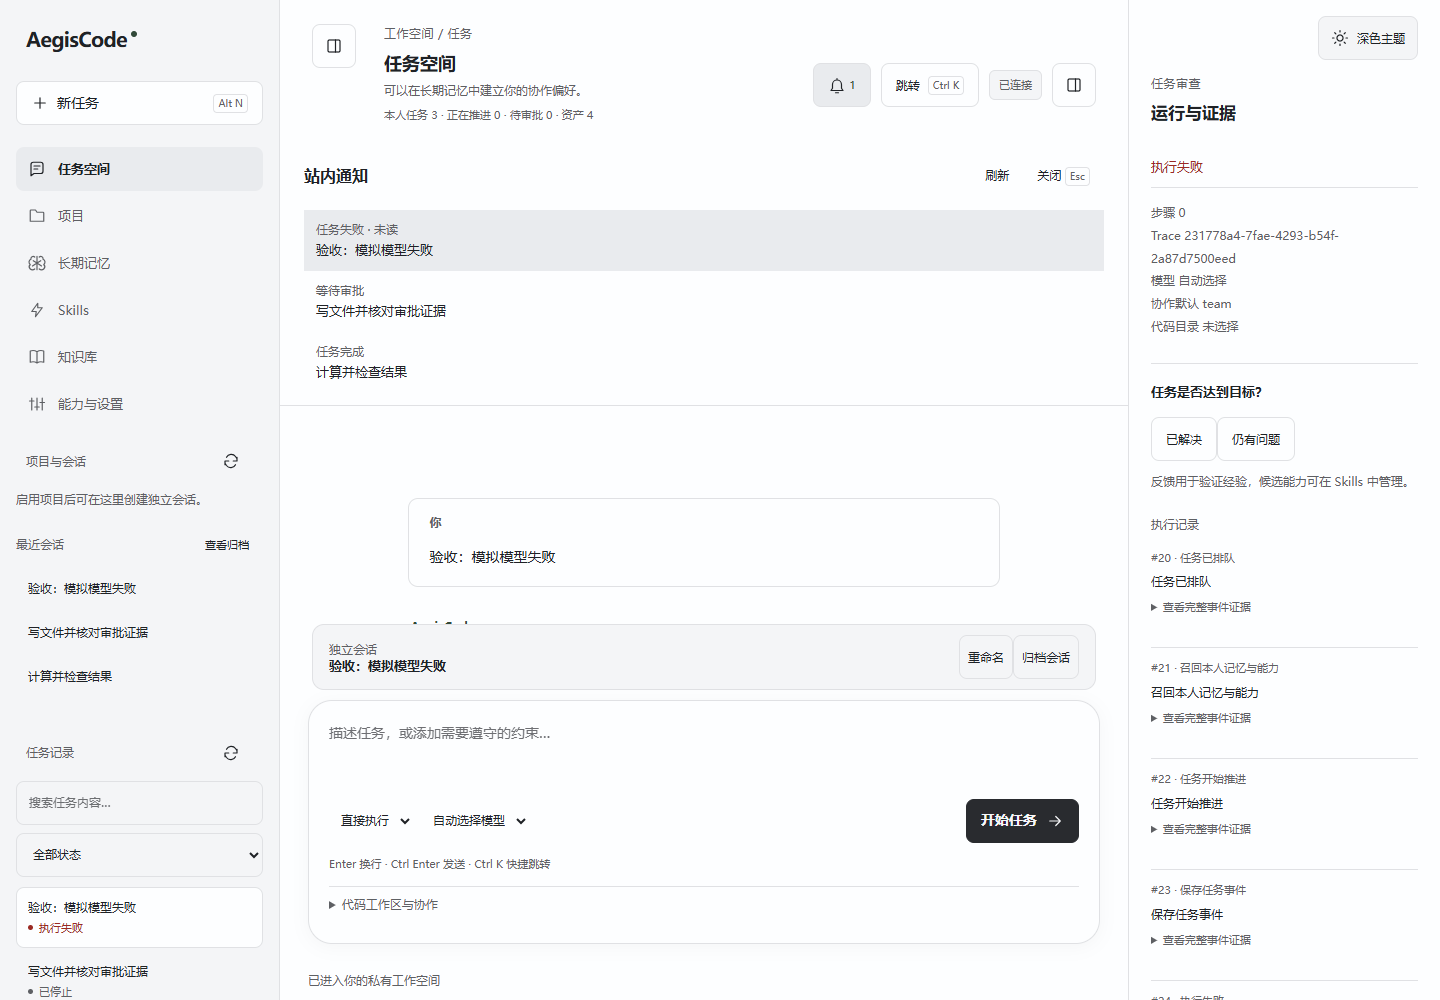
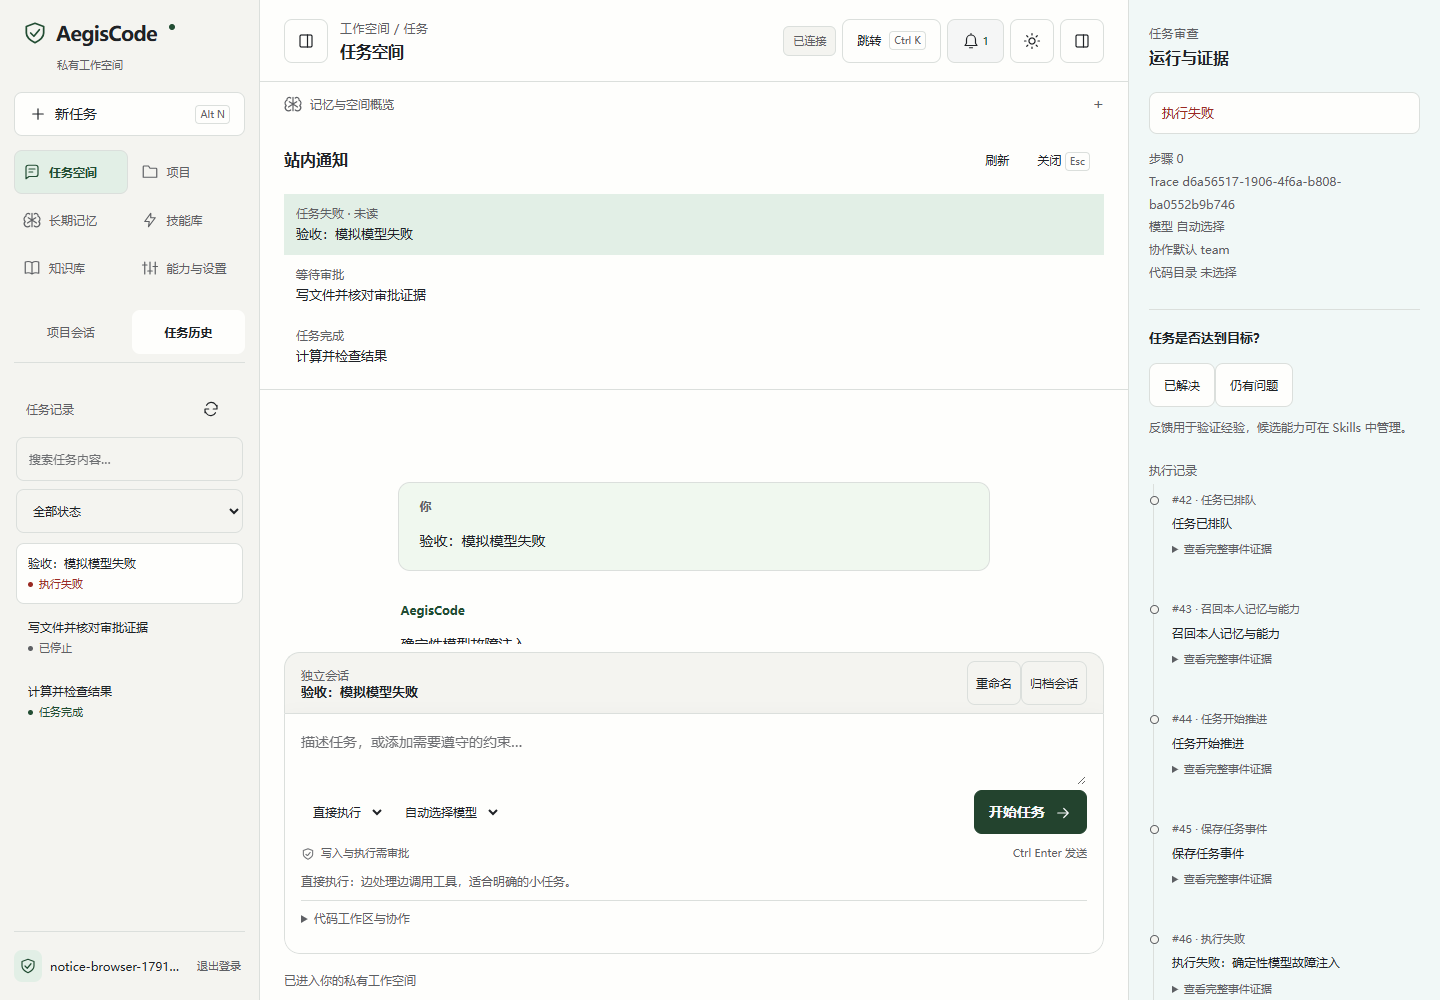
docs(使用): 展示新版工作台截图与操作指南

diff --git a/docs/升级方案/21-工作台布局与易用性验收.md b/docs/升级方案/21-工作台布局与易用性验收.md
@@ -1,0 +1,73 @@
+# 工作台布局与易用性验收
+
+日期：2026-10-07。范围：当前 TypeScript + Vite、HTML/CSS 前端；本轮不更改模型、审批和工具权限契约。
+
+## 任务与执行方式
+
+采用模式 B：现有前端模块优化。用户明确要求继续改善简陋界面、布局，并补充浅色相近色变化与易懂的功能说明。
+
+- [x] 检查用户参考图 `C:/Users/dell/Desktop/1.png`、现有截图、HTML/CSS 与 TypeScript。
+- [x] 重排导航、项目／历史分区、顶部工具栏、会话区、输入区和审查区。
+- [x] 增加浅色层次、模式说明、功能用途与当前会话标记。
+- [x] 清理重复响应式规则与当前会话标记逻辑。
+- [x] 浏览器验收、查看真实截图并修正窄屏工具栏。
+- [x] 同步 README、设计说明和操作指南。
+
+用户之前已持续授权分阶段提交并更新 GitHub，本轮按界面实现与文档截图两组提交。仅纳入本轮文件，不提交工作区已有的 Gradio、依赖及独立文档改动。
+
+## 技能选择
+
+按 find-skills 工作流扫描本地目录并匹配候选；项目未提供 `.codex/skills` 或 `.agents` 目录。本轮不安装额外技能或前端依赖。
+
+| 候选 | 功能与适用场景 | 本轮选择 |
+|---|---|---|
+| find-skills | 查找可复用技能 | 使用，完成本地匹配 |
+| ui-ux-pro-max | 布局、交互与响应式建议 | 使用，检索侧栏导航密度 |
+| impeccable | 产品上下文与视觉治理 | 使用，读取 PRODUCT／DESIGN 和 product 规则 |
+| frontend-design | 前端视觉与组件实现 | 使用，重排现有工作台 |
+| code-simplifier | 去除重复代码 | 使用，合并窄屏样式与会话标记函数 |
+| webapp-testing | 浏览器交互和截图验收 | 使用，Playwright 真实浏览器 |
+| verification-before-completion | 交付前验证 | 使用，核对本轮构建与验收输出 |
+| Git Smart Commit | 逻辑拆分提交 | 使用，界面与文档分组 |
+| brainstorming | 新功能创意设计 | 未新增系统，沿用已确定方向 |
+| writing-plans | 多模块实施计划 | 未新增架构，记录模块级方案 |
+| code-refactor | 系统性重构 | 不扩大到后端重构 |
+| dependency-auditor | 依赖审计 | 本轮不变更依赖 |
+
+没有调用 Sequential Thinking、DuckDuckGo、Context7 或 Serena；本轮无需外部知识。采用本地源码、参考图、技能搜索与浏览器证据。
+
+## 最终设计
+
+保留常见编码工作台的中央会话与底部输入，以绿色状态和记忆／技能／审查入口体现 AegisCode 的用途。
+
+- 侧栏功能导航两列排列，「项目会话／任务历史」切换记录类型；列表独立滚动，账号和退出保留底部位置。
+- 顶部工具栏收紧，主题按钮不再悬浮遮挡；「记忆与空间概览」按需展开。
+- 浅色使用暖灰导航、柔白会话、浅鼠尾草绿选中项和用户消息、浅青灰审查；深色共享相同语义变量。
+- 当前会话用背景与 `aria-current` 标记；项目树刷新保留展开状态。快捷搜索任务会自动打开历史并定位搜索框。
+- 项目标签、重命名、归档与输入合并在同一区域；保留有界滚动，避免展开协作选项后遮挡控件。
+- 技能入口使用「技能库」，保留 Skills 检索词；执行模式随选择显示解释；Fork、Team、Worktree 在审查信息中显示中文用途。
+- 窄屏工具栏使用有名称的图标；键盘焦点、`aria-pressed`、`aria-current` 与原有错误反馈保留。
+
+## 验收证据
+
+命令：
+
+```powershell
+npm.cmd run frontend:verify
+.venv/Scripts/python.exe -m ruff check scripts/layout_browser_acceptance.py scripts/run_ui_acceptance.py scripts/project_threads_browser_acceptance.py
+.venv/Scripts/python.exe -m scripts.run_ui_acceptance --module scripts.project_threads_browser_acceptance --module scripts.notifications_browser_acceptance --module scripts.workbench_browser_acceptance --module scripts.layout_browser_acceptance
+.venv/Scripts/python.exe -m scripts.coding_ui_acceptance --url http://127.0.0.1:8002 --output build/ui-layout-coding-final
+.venv/Scripts/python.exe -m scripts.thread_browser_acceptance --url http://127.0.0.1:8002 --output build/ui-layout-thread
+```
+
+结果：TypeScript、Vite 构建和修改范围 Ruff 通过；项目会话 13 项、通知 10 项、完整工作台、代码界面 18 项、连续问答 9 项通过。最终会话标记函数清理后再次执行项目 13 项与布局验收，均通过。页面无未捕获脚本错误；完整工作台无非预期 HTTP 服务错误。
+
+布局覆盖浅色／深色各 6 个视口：1440×900、1280×720、1024×768、768×1024、390×844、844×390，共 12 组。检查无页面横向溢出、发送按钮可滚动到完整可见且未被遮挡、协作选项可访问；极长会话标题与 HTML 注入文本没有生成图片节点。还验证概览展开、模式说明、建议只预填、快捷搜索定位、当前会话高亮和登录退出主题按钮位置。
+
+工作台与通知包含 HTTP 500 故障注入，核对用户可重试；原有审批、文件预览、会话归档与分页功能保留。测试使用独立临时数据库和确定性模型，不代表真实模型泛化效果。本轮未重跑后端全量测试、Docker 沙箱或公开安装包验收。
+
+本机 `http://127.0.0.1:8002/api/v1/health/ready` 返回 `status=ready`、`database=up`。通过系统命令打开浏览器被自动审批以 `blocked by policy` 拦截，页面需从链接访问。
+
+## 交付范围
+
+[新版操作指南](../新版工作台指南.md)与五张[新版截图](../截图/工作台新版/01-浅色工作空间.png)展示本轮源码界面。公开 0.2.6 EXE 尚未包含本轮改版，不覆盖既有发布资产；后续版本须重新构建并验收安装器。

diff --git a/README.md b/README.md
@@ -8,13 +8,15 @@ AegisCode 面向个人开发者和企业成员：描述目标，由 Agent 规划
 
 [安装与启动](#安装与启动) · [使用场景与截图](#使用场景与截图) · [模型配置](#模型配置) · [使用方式](#使用方式) · [项目亮点](#项目亮点) · [使用手册](docs/使用手册.md)
 
-![AegisCode 项目多会话工作台](docs/截图/项目会话/01-项目独立会话.png)
+![AegisCode 浅色工作空间](docs/截图/工作台新版/01-浅色工作空间.png)
 
 ## 界面与操作
 
-浅色任务侧栏、中央线程、底部输入区与可折叠审查区，配合石墨深色主题。正式界面使用 **TypeScript + Vite、HTML/CSS**，随 FastAPI 和 EXE 提供静态页面。AegisCode 把个人长期记忆、Skill 审阅和工具证据保留在同一工作台。
+暖灰导航、柔白会话区、浅绿记忆与选中状态、冷灰审查区，配合石墨深色主题。正式界面使用 **TypeScript + Vite、HTML/CSS**，随 FastAPI 和 EXE 提供静态页面。AegisCode 把个人长期记忆、Skill 审阅和工具证据保留在同一工作台。上图为当前源码界面，公开 **0.2.6 下载包尚未包含本次布局更新**。
 
 - 顶部按钮折叠两侧面板，聚焦当前线程；窄屏默认收起导航。
+- 侧栏「项目会话／任务历史」切换记录类型；项目树刷新保留展开状态，当前会话高亮。账号与退出入口固定在侧栏底部。
+- 「记忆与空间概览」按需展开；输入区解释执行模式，项目标签与会话操作合并在输入区上方。
 - `Ctrl K` / `Cmd K` 搜索入口，方向键选择、`Enter` 打开、`Esc` 关闭；`Alt N` 开新任务，`Ctrl Enter` 发送。
 - 回答中的代码块独立展示并支持复制；任务文件只读预览，写文件与运行代码需审批。
 - 当前源码支持同一会话的历史问答与分页加载；选中旧任务时只展示截至该任务的问答，子任务保留独立视图。
@@ -23,13 +25,13 @@ AegisCode 面向个人开发者和企业成员：描述目标，由 Agent 规划
 - 协作选项接通 Fork、Agent Team 与审批后的 Worktree/代码副本准备；主控保留控制权，子任务目前只读。
 
 <details>
-<summary>查看编码线程与深色界面</summary>
+<summary>查看新版任务审查与深色界面</summary>
 
-![浅色编码线程](docs/升级方案/截图/0.2.5/06-浅色编码体验.png)
+![浅色任务与审查证据](docs/截图/工作台新版/03-任务与审查证据.png)
 
-![深色编码线程](docs/升级方案/截图/0.2.5/05-深色编码体验.png)
+![深色工作台](docs/截图/工作台新版/04-深色工作台.png)
 
-首页为本机完整工作台验收截图，编码线程为确定性界面夹具截图，用于展示交互，不代表真实模型的代码效果。
+新版截图来自独立数据库、真实 HTTP 链路与确定性测试模型，用于展示交互，不代表真实模型效果。操作导览见[新版工作台指南](docs/新版工作台指南.md)。
 
 </details>
 
@@ -40,9 +42,9 @@ AegisCode 面向个人开发者和企业成员：描述目标，由 Agent 规划
 | 你想完成的工作 | 操作入口 | 平台带来的价值 |
 |---|---|---|
 | 持续讨论代码问题 | 任务空间 → 打开任务 → 继续提问 | 历史问答可分页查看，保留任务状态与执行证据 |
-| 同时推进一个项目的不同目标 | 项目与会话 → 展开项目 → 新建项目会话 | 项目目标复用，线程上下文独立；可重命名、归档和恢复 |
+| 同时推进一个项目的不同目标 | 侧栏「项目会话」→ 展开项目 → 新建项目会话 | 项目目标复用，线程上下文独立；可重命名、归档和恢复 |
 | 跟进后台任务 | 顶部铃铛 → 站内通知 | 完成、失败与审批提醒可回看，已读状态持久保存 |
-| 复用自己的工作方法 | 长期记忆、Skills → 审核候选 → 启用 | 偏好、约束和成功／失败经验跨会话复用，技能可以修订或退役 |
+| 复用自己的工作方法 | 长期记忆、技能库 → 审核候选 → 启用 | 偏好、约束和成功／失败经验跨会话复用，技能可以修订或退役 |
 | 分工处理复杂任务 | 输入区「代码工作区与协作」 | 主任务掌握规划与审批，最多两个只读子任务提供有界结果 |
 | 核对任务是否真的执行 | 任务审查 → 协作与独立验收 | 检查完成状态和工具账本，缺少必要证据时阻断后续节点 |
 | 使用自己的模型服务 | 能力与设置 → 接入自己的模型服务 | 支持兼容接口、Anthropic、Azure、Ollama 和自定义来源，独立熔断与降级 |

diff --git a/docs/新版工作台指南.md b/docs/新版工作台指南.md
@@ -1,0 +1,40 @@
+# 新版工作台指南
+
+当前源码使用 TypeScript + Vite、HTML/CSS。0.2.6 下载包具备原有功能，但尚未包含本次布局更新；使用当前源码可查看下面的界面。
+
+## 从目标开始
+
+![浅色工作空间](截图/工作台新版/01-浅色工作空间.png)
+
+输入你的目标与约束，点击「开始任务」，或按 `Ctrl Enter`。三个建议入口只填入示例，不会自动发送。直接执行适合明确的小任务；先规划适合多步骤目标；审查回答用于质量复核。切换模式时，下方说明同步更新。模型列表来自服务端实际配置，「自动选择模型」使用服务端路由与兜底。
+
+## 找到项目和旧任务
+
+![项目会话与输入区](截图/工作台新版/02-项目会话与输入区.png)
+
+侧栏「项目会话」展开项目后可新建独立会话；同一项目下的会话分别保留上下文。当前会话高亮，刷新保留项目展开状态。输入区上方显示项目、会话名、重命名和归档操作。
+
+「任务历史」按内容搜索或按状态筛选，点击任务查看问答与执行证据。长列表独立滚动，账号与退出入口保留在底部。「查看归档」用于找到已归档会话，恢复后才能继续发送。
+
+## 理解记忆、技能和审查
+
+- 长期记忆：保存个人偏好、约束与经验；候选先审阅，再启用。
+- 技能库：管理可复用操作方法，查看边界、资源和版本；可以修订或退役。
+- 知识库：上传本人资料，为问答提供检索来源。
+- 记忆与空间概览：查看已加载记忆和任务统计，展开后读取。
+- 顶部铃铛：查看本人完成、失败和审批提醒，点击定位任务。
+- 右侧面板按钮：展开运行状态、工具审批、执行记录和只读文件。
+
+![任务与审查证据](截图/工作台新版/03-任务与审查证据.png)
+
+批准前核对工具与完整参数。消息或经验里的约束不会扩大实际权限；点击通知不会自动审批。协作和代码目录准备仍在输入区「代码工作区与协作」中，界面解释 Fork、Team 和 Worktree 的用途，服务端决定可用范围。
+
+## 深色、窄屏与快捷键
+
+![深色工作台](截图/工作台新版/04-深色工作台.png)
+
+<img src="截图/工作台新版/05-窄屏工作台.png" alt="窄屏工作台" width="390">
+
+顶部太阳按钮切换主题；窄屏默认收起侧栏，点击左上按钮展开。`Ctrl K`（macOS 为 `Cmd K`）搜索入口，方向键选择、Enter 打开、Escape 关闭；搜索「搜索任务」会自动切换历史列表并定位输入。`Alt N` 开始新任务，Enter 在输入框中换行。
+
+截图来自独立临时数据库、真实 HTTP 链路和确定性测试模型，用于验证交互与布局，不证明商业模型回答质量。

diff --git a/docs/DESIGN.md b/docs/DESIGN.md
@@ -9,3 +9,7 @@
 首版使用同源静态 HTML/CSS/JS，避免 EXE 安装依赖 Node。用户输出与工具参数通过 textContent 渲染，禁止不可信 HTML。持久事件以 ID 去重；网络失败重试读取事件，不重发任务创建。
 
 正式源码使用 TypeScript + Vite，继续输出同源静态页面。导航可折叠，窄屏首次加载默认收起；快捷跳转采用可搜索的内联区域，保留自然 Tab 顺序与 Escape 焦点恢复，不创建遮罩。模型代码块以纯文本渲染，复制成功与剪贴板失败均展示明确反馈；不把文件预览伪装成编辑器。深浅主题共享语义色与组件尺寸。
+
+当前源码优化：桌面侧栏 260px，宽屏 280px；功能导航分为两列，「项目会话／任务历史」切换列表，列表独立滚动，账号与退出固定在底部。顶部工具栏约 82px，主题按钮进入工具栏；记忆与统计按需展开。项目树保留刷新前的展开状态，以背景色和 aria-current 标记当前会话。
+
+浅色增加相近色层次：暖灰导航、柔白会话、鼠尾草绿选中与用户消息、浅青灰审查。由 --rail、--paper、--accent-light、--soft、--soft-alt、--panel 统一映射；深色保留相同语义。项目标签、会话管理与输入框组成同一底部区域；协作设置展开后可在区域内滚动。窄屏工具栏改用带可访问名称的图标，保留记忆概览和可见键盘焦点。所有现有安全审查仍由服务端决定。
